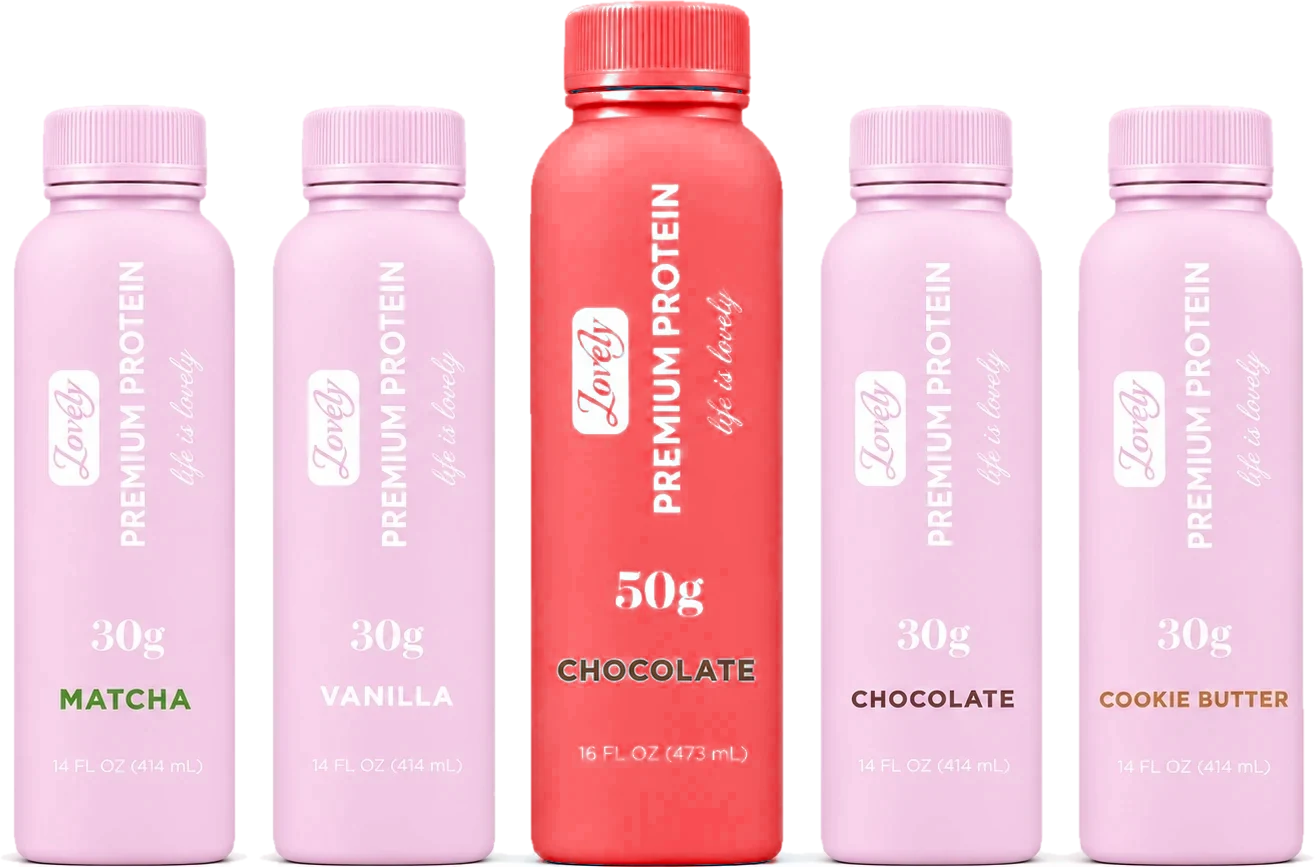
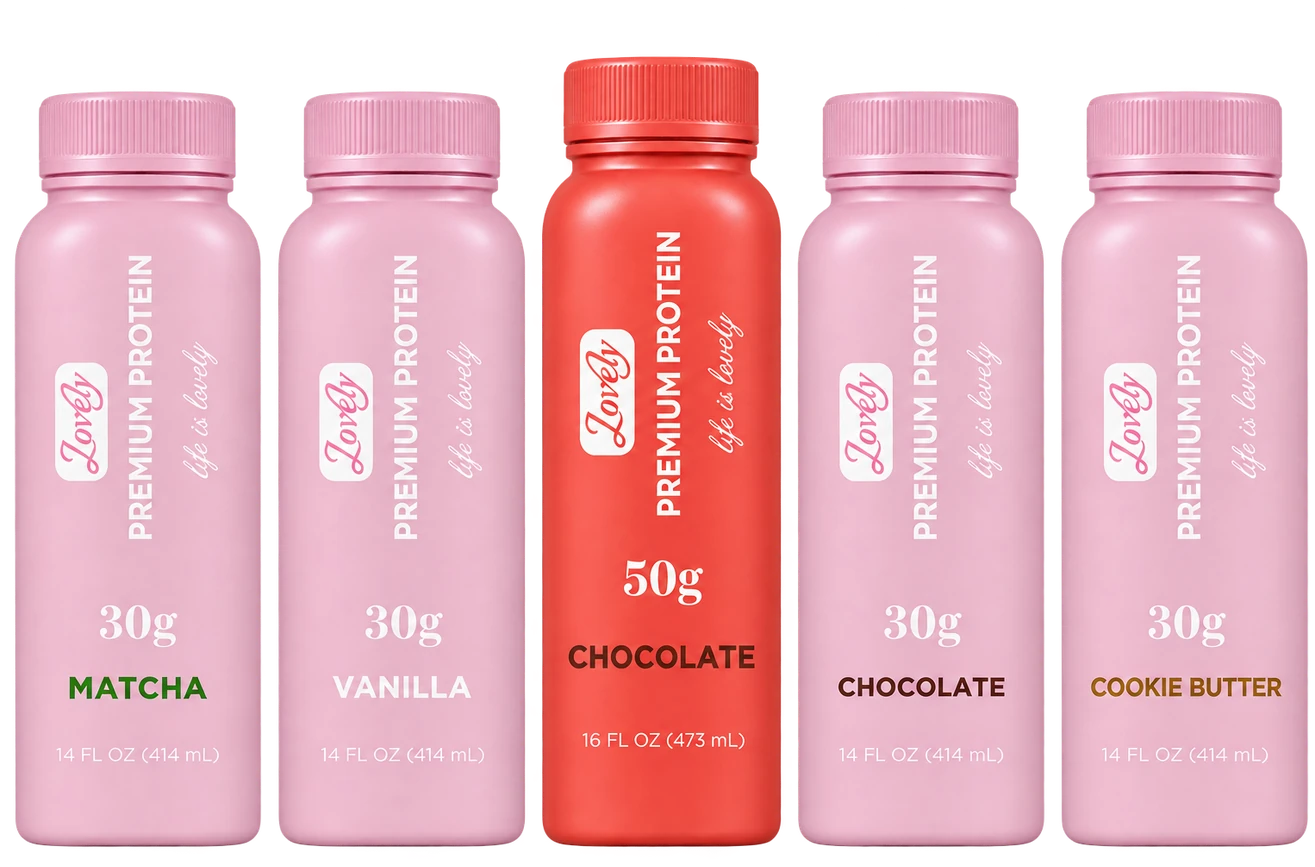
New five-bottle lineup photo
Claude-Session: https://claude.ai/code/session_01AzpPYfJ2iNTin5mbwrihoY

diff --git a/index.html b/index.html
@@ -1212,7 +1212,7 @@ header.top { background: var(--bg) !important; backdrop-filter: none !important;
   <a class="btn" href="shop.html">Build a box <span class="boxcount" hidden>0</span></a>
 </aside><main id="main">
 <section class="hero hbgw" aria-labelledby="h-shakes"><picture class="hbg"><source media="(max-width: 760px)" srcset="img/hero2_grid_m720.webp 720w, img/hero2_grid_m1080.webp 1080w" sizes="100vw"><img src="img/hero3_grid_2400.webp" srcset="img/hero3_grid_1600.webp 1600w, img/hero3_grid_2400.webp 2400w" sizes="100vw" alt="Lovely protein shakes in every flavor: pink 30g bottles and 12-packs in vanilla, chocolate, cookie butter and matcha, and coral 50g bottles and 12-packs" width="2400" height="1350" fetchpriority="high"></picture><div class="wrap"><div><h1 id="h-shakes">The protein shake you actually <em>want to drink.</em></h1><p class="lead">Tastes like a milkshake. Protein for him and for her. Protein for light weight, heavy weight, and everything in between. Only ingredients you can actually pronounce. Helping you build a life that's lovely.</p><div class="ctas stack"><a class="btn alt" href="index.html#lovelypass"><span class="swl"><span>Lovely</span></span> Pass</a><a class="btn" href="#find">Find a fridge</a></div></div></div></section>
-<section class="topbox" aria-label="Build a box"><div class="wrap"><div class="doors one"><a class="door dark" href="shop.html"><div><h3>Build a box of 12 or 24</h3><p>Any flavors, 30g or 50g. Free shipping on 24, because we're not monsters.</p></div><span class="go">Start building →</span><img class="lineup" src="img/lineup_mix.webp" srcset="img/lineup_mix_sm.webp 560w, img/lineup_mix.webp 1315w" sizes="(max-width: 860px) 320px, 420px" alt="Pink 30g Lovely bottles in Matcha, Vanilla, Chocolate and Cookie Butter with a coral 50g Chocolate" width="1315" height="867"></a></div></div></section><section class="shelf" style="padding-block:28px 10px" aria-labelledby="shelf-shakes"><div class="wrap"><div class="shelf-top"><h2 id="shelf-shakes">5 flavors. Zero chalk.</h2><div class="filters" role="group" aria-label="Filter"><button type="button" class="press" aria-pressed="true" data-filter="all">All</button><button type="button" class="press" aria-pressed="false" data-filter="classic">Launch flavors</button><button type="button" class="press" aria-pressed="false" data-filter="new">New</button></div></div><div class="bottle-view"><p><b>Pick a bottle.</b> Tap a flavor for nutrition facts.</p><div class="segline" role="group" aria-label="Bottle size"><button type="button" data-protein="30" aria-pressed="true"><span class="swl"><span>Lovely</span></span> · 30g</button><button type="button" data-protein="50" aria-pressed="false" class="w">Lovely · 50g</button></div></div><div class="rail"><article class="fl" data-tag="classic" id="flavor-choc"><span class="tag classic">Launch flavor</span><button type="button" class="pic" data-drink="choc" aria-label="Chocolate: see nutrition facts"><img src="img/b_choc.webp?v=3" alt="Lovely Chocolate protein shake" width="200" height="520" loading="lazy"></button><h3><button type="button" class="nlink" data-drink="choc">Chocolate</button></h3><button type="button" class="nf-link" data-drink="choc">Nutrition facts</button><button type="button" class="add" data-add="choc">Add to box</button></article><article class="fl" data-tag="classic" id="flavor-van"><span class="tag classic">Launch flavor</span><button type="button" class="pic" data-drink="van" aria-label="Vanilla: see nutrition facts"><img src="img/b_van.webp?v=3" alt="Lovely Vanilla protein shake" width="200" height="520" loading="lazy"></button><h3><button type="button" class="nlink" data-drink="van">Vanilla</button></h3><button type="button" class="nf-link" data-drink="van">Nutrition facts</button><button type="button" class="add" data-add="van">Add to box</button></article><article class="fl" data-tag="classic" id="flavor-pb"><span class="tag classic">Launch flavor</span><button type="button" class="pic" data-drink="pb" aria-label="Peanut Butter: see nutrition facts"><img src="img/b_pb.webp?v=3" alt="Lovely Peanut Butter protein shake" width="200" height="520" loading="lazy"></button><h3><button type="button" class="nlink" data-drink="pb">Peanut Butter</button></h3><button type="button" class="nf-link" data-drink="pb">Nutrition facts</button><button type="button" class="add" data-add="pb">Add to box</button></article><article class="fl" data-tag="new" id="flavor-cbutter"><span class="tag new">New</span><button type="button" class="pic" data-drink="cbutter" aria-label="Cookie Butter: see nutrition facts"><img src="img/b_cbutter.webp?v=3" alt="Lovely Cookie Butter protein shake" width="200" height="520" loading="lazy"></button><h3><button type="button" class="nlink" data-drink="cbutter">Cookie Butter</button></h3><button type="button" class="nf-link" data-drink="cbutter">Nutrition facts</button><button type="button" class="add" data-add="cbutter">Add to box</button></article><article class="fl" data-tag="new" id="flavor-matcha"><span class="tag new">New</span><button type="button" class="pic" data-drink="matcha" aria-label="Matcha: see nutrition facts"><img src="img/b_matcha.webp?v=3" alt="Lovely Matcha protein shake" width="200" height="520" loading="lazy"></button><h3><button type="button" class="nlink" data-drink="matcha">Matcha</button></h3><button type="button" class="nf-link" data-drink="matcha">Nutrition facts</button><button type="button" class="add" data-add="matcha">Add to box</button></article></div></div></section>
+<section class="topbox" aria-label="Build a box"><div class="wrap"><div class="doors one"><a class="door dark" href="shop.html"><div><h3>Build a box of 12 or 24</h3><p>Any flavors, 30g or 50g. Free shipping on 24, because we're not monsters.</p></div><span class="go">Start building →</span><img class="lineup" src="img/lineup_mix.webp?v=4" srcset="img/lineup_mix_sm.webp?v=4 560w, img/lineup_mix.webp?v=4 1315w" sizes="(max-width: 860px) 320px, 420px" alt="Pink 30g Lovely bottles in Matcha, Vanilla, Chocolate and Cookie Butter with a coral 50g Chocolate" width="1315" height="867"></a></div></div></section><section class="shelf" style="padding-block:28px 10px" aria-labelledby="shelf-shakes"><div class="wrap"><div class="shelf-top"><h2 id="shelf-shakes">5 flavors. Zero chalk.</h2><div class="filters" role="group" aria-label="Filter"><button type="button" class="press" aria-pressed="true" data-filter="all">All</button><button type="button" class="press" aria-pressed="false" data-filter="classic">Launch flavors</button><button type="button" class="press" aria-pressed="false" data-filter="new">New</button></div></div><div class="bottle-view"><p><b>Pick a bottle.</b> Tap a flavor for nutrition facts.</p><div class="segline" role="group" aria-label="Bottle size"><button type="button" data-protein="30" aria-pressed="true"><span class="swl"><span>Lovely</span></span> · 30g</button><button type="button" data-protein="50" aria-pressed="false" class="w">Lovely · 50g</button></div></div><div class="rail"><article class="fl" data-tag="classic" id="flavor-choc"><span class="tag classic">Launch flavor</span><button type="button" class="pic" data-drink="choc" aria-label="Chocolate: see nutrition facts"><img src="img/b_choc.webp?v=3" alt="Lovely Chocolate protein shake" width="200" height="520" loading="lazy"></button><h3><button type="button" class="nlink" data-drink="choc">Chocolate</button></h3><button type="button" class="nf-link" data-drink="choc">Nutrition facts</button><button type="button" class="add" data-add="choc">Add to box</button></article><article class="fl" data-tag="classic" id="flavor-van"><span class="tag classic">Launch flavor</span><button type="button" class="pic" data-drink="van" aria-label="Vanilla: see nutrition facts"><img src="img/b_van.webp?v=3" alt="Lovely Vanilla protein shake" width="200" height="520" loading="lazy"></button><h3><button type="button" class="nlink" data-drink="van">Vanilla</button></h3><button type="button" class="nf-link" data-drink="van">Nutrition facts</button><button type="button" class="add" data-add="van">Add to box</button></article><article class="fl" data-tag="classic" id="flavor-pb"><span class="tag classic">Launch flavor</span><button type="button" class="pic" data-drink="pb" aria-label="Peanut Butter: see nutrition facts"><img src="img/b_pb.webp?v=3" alt="Lovely Peanut Butter protein shake" width="200" height="520" loading="lazy"></button><h3><button type="button" class="nlink" data-drink="pb">Peanut Butter</button></h3><button type="button" class="nf-link" data-drink="pb">Nutrition facts</button><button type="button" class="add" data-add="pb">Add to box</button></article><article class="fl" data-tag="new" id="flavor-cbutter"><span class="tag new">New</span><button type="button" class="pic" data-drink="cbutter" aria-label="Cookie Butter: see nutrition facts"><img src="img/b_cbutter.webp?v=3" alt="Lovely Cookie Butter protein shake" width="200" height="520" loading="lazy"></button><h3><button type="button" class="nlink" data-drink="cbutter">Cookie Butter</button></h3><button type="button" class="nf-link" data-drink="cbutter">Nutrition facts</button><button type="button" class="add" data-add="cbutter">Add to box</button></article><article class="fl" data-tag="new" id="flavor-matcha"><span class="tag new">New</span><button type="button" class="pic" data-drink="matcha" aria-label="Matcha: see nutrition facts"><img src="img/b_matcha.webp?v=3" alt="Lovely Matcha protein shake" width="200" height="520" loading="lazy"></button><h3><button type="button" class="nlink" data-drink="matcha">Matcha</button></h3><button type="button" class="nf-link" data-drink="matcha">Nutrition facts</button><button type="button" class="add" data-add="matcha">Add to box</button></article></div></div></section>
 <section class="ds-sec" aria-labelledby="h-ds"><div class="wrap ds-head">
   <div><h2 id="h-ds"><span class="hash">#lifeislovely</span></h2><p>Tag <b>@drinklovely</b> to get featured. Fame awaits. Mild fame.</p></div>
   <div class="ctas"><a class="btn" href="blog.html">See the feed</a><button type="button" class="btn alt" data-copy="#lifeislovely">Copy #lifeislovely</button></div>

diff --git a/shop.html b/shop.html
@@ -1230,7 +1230,7 @@ header.top { background: var(--bg) !important; backdrop-filter: none !important;
         <h1 id="pdp-h">Premium Protein Shake</h1>
     <p class="pdp-sum">Tastes like a milkshake. Lactose-free. Ships in cases of 24.</p>
     <div class="pdp-price"><b id="pdp-now">$101.99</b><span id="pdp-per">Free shipping</span></div>
-    <fieldset class="pdp-opt"><legend>Flavor: <b id="pdp-flv">Chocolate</b></legend><div class="pdp-flavors"><button type="button" data-f="choc" aria-pressed="true" title="Chocolate"><img src="img/b_choc.webp?v=3" alt="" width="204" height="700"><span>Chocolate</span></button><button type="button" data-f="van" aria-pressed="false" title="Vanilla"><img src="img/b_van.webp?v=3" alt="" width="204" height="700"><span>Vanilla</span></button><button type="button" data-f="cbutter" aria-pressed="false" title="Cookie Butter"><img src="img/b_cbutter.webp?v=3" alt="" width="204" height="700"><span>Cookie Butter</span></button><button type="button" data-f="matcha" aria-pressed="false" title="Matcha"><img src="img/b_matcha.webp?v=3" alt="" width="204" height="700"><span>Matcha</span></button><button type="button" data-f="pb" aria-pressed="false" title="Peanut Butter"><img src="img/b_pb.webp?v=3" alt="" width="204" height="700"><span>Peanut Butter</span></button><button type="button" data-f="mix" aria-pressed="false" title="Mix flavors"><img src="img/lineup_mix_sm.webp" alt="" width="660" height="435" class="mx"><span>Mix flavors</span></button></div></fieldset>
+    <fieldset class="pdp-opt"><legend>Flavor: <b id="pdp-flv">Chocolate</b></legend><div class="pdp-flavors"><button type="button" data-f="choc" aria-pressed="true" title="Chocolate"><img src="img/b_choc.webp?v=3" alt="" width="204" height="700"><span>Chocolate</span></button><button type="button" data-f="van" aria-pressed="false" title="Vanilla"><img src="img/b_van.webp?v=3" alt="" width="204" height="700"><span>Vanilla</span></button><button type="button" data-f="cbutter" aria-pressed="false" title="Cookie Butter"><img src="img/b_cbutter.webp?v=3" alt="" width="204" height="700"><span>Cookie Butter</span></button><button type="button" data-f="matcha" aria-pressed="false" title="Matcha"><img src="img/b_matcha.webp?v=3" alt="" width="204" height="700"><span>Matcha</span></button><button type="button" data-f="pb" aria-pressed="false" title="Peanut Butter"><img src="img/b_pb.webp?v=3" alt="" width="204" height="700"><span>Peanut Butter</span></button><button type="button" data-f="mix" aria-pressed="false" title="Mix flavors"><img src="img/lineup_mix_sm.webp?v=4" alt="" width="660" height="435" class="mx"><span>Mix flavors</span></button></div></fieldset>
     <fieldset class="pdp-opt"><legend>Protein: <b id="pdp-pro">30g</b></legend><div class="pdp-sizes"><button type="button" data-pp="30" aria-pressed="true"><b>30g protein</b><span>Pink bottle · 14 oz</span></button><button type="button" data-pp="50" aria-pressed="false"><b>50g protein</b><span>Coral bottle · 16 oz</span></button></div></fieldset>
     <fieldset class="pdp-opt pdp-plans"><legend class="sr">Purchase</legend>
       <label class="pdp-plan"><input type="radio" name="pdp-plan" value="sub" checked><span class="pp-h"><b>Subscribe <em id="pdp-save2">Save 15%</em></b></span>
@@ -2085,10 +2085,10 @@ header.top { background: var(--bg) !important; backdrop-filter: none !important;
   var q = new URLSearchParams(location.search), st = { f: N[q.get("f")] ? q.get("f") : "choc", p: q.get("p") === "50" ? 50 : 30, plan: "sub", img: 0 };
   function m(v) { return "$" + v.toFixed(2); }
   function pics() { var f = st.f, w = st.p === 50;
-    if (f === "mix") return [["img/lineup_mix.webp", "Protein shakes in every flavor, 30g and 50g bottles", 0], ["img/size_compare.webp", "30g and 50g bottles side by side", 0], ["img/pack_choc.webp?v=3", "A 12-bottle pack", 0]];
+    if (f === "mix") return [["img/lineup_mix.webp?v=4", "Protein shakes in every flavor, 30g and 50g bottles", 0], ["img/size_compare.webp", "30g and 50g bottles side by side", 0], ["img/pack_choc.webp?v=3", "A 12-bottle pack", 0]];
     return [[w ? "img/pack_swoll_" + f + ".webp?v=2" : "img/pack_" + f + ".webp?v=3", N[f] + " protein shake, " + st.p + "g, with its pack", 0],
       [w ? "img/sw_" + f + "_lg.webp" : "img/b_" + f + ".webp?v=3", N[f] + " protein shake bottle, " + st.p + "g protein", 1],
-      ["img/size_compare.webp", "30g and 50g bottles side by side", 0], ["img/lineup_mix.webp", "Every flavor in 30g and 50g bottles", 0]]; }
+      ["img/size_compare.webp", "30g and 50g bottles side by side", 0], ["img/lineup_mix.webp?v=4", "Every flavor in 30g and 50g bottles", 0]]; }
   function draw() {
     var r = PR[st.p], P = pics(), cur = P[Math.min(st.img, P.length - 1)], mix = st.f === "mix", price = st.plan === "sub" ? r.sub : r.once;
     var im = $("pdp-img"); im.src = cur[0]; im.alt = cur[1]; im.className = cur[2] ? "fit" : "";

diff --git a/products.html b/products.html
@@ -1346,7 +1346,7 @@ header.top { background: var(--bg) !important; backdrop-filter: none !important;
   </div>
 </article>
 <article class="st-card" data-cat="shakes" data-price="101.99" data-order="5" data-new="0">
-  <a class="st-img photo mixfit" href="shop.html#build"><img src="img/lineup_mix_sm.webp" srcset="img/lineup_mix_sm.webp 660w, img/lineup_mix.webp 1315w" sizes="(max-width: 700px) 46vw, 280px" alt="Protein shakes in all five flavors, 30g pink and 50g coral bottles" width="1315" height="867" loading="lazy"><span class="st-badges"></span></a>
+  <a class="st-img photo mixfit" href="shop.html#build"><img src="img/lineup_mix_sm.webp?v=4" srcset="img/lineup_mix_sm.webp?v=4 660w, img/lineup_mix.webp?v=4 1315w" sizes="(max-width: 700px) 46vw, 280px" alt="Protein shakes in all five flavors, 30g pink and 50g coral bottles" width="1315" height="867" loading="lazy"><span class="st-badges"></span></a>
   <div class="st-body">
     <h3><a href="shop.html#build">Mix &amp; Match 24-Pack</a></h3>
     <p class="st-var">Pick any flavors · 30g, 50g or both</p>
